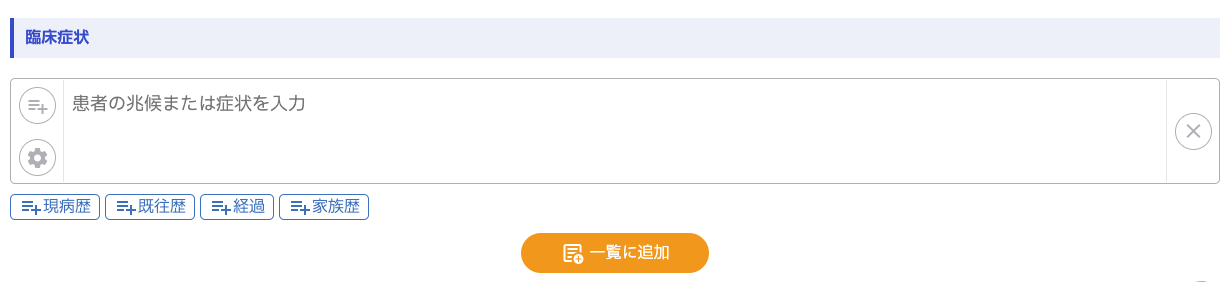
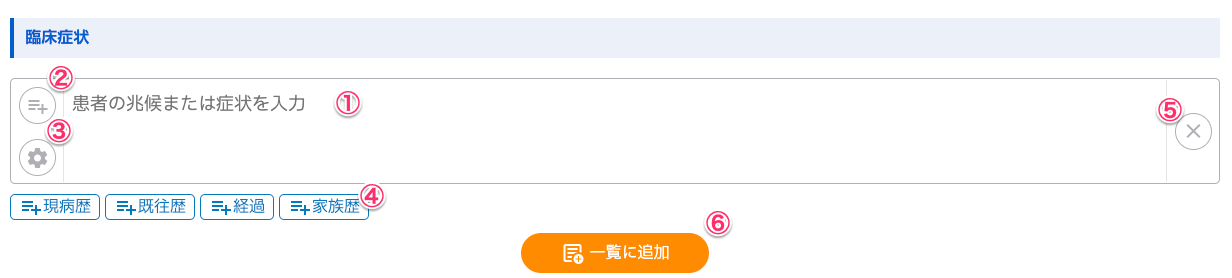
表現型修正

diff --git a/docs/cases/edit/phenotype.md b/docs/cases/edit/phenotype.md
@@ -2,19 +2,28 @@
 
 ## 大項目
 
-| 項目名                            | 説明                                             |
-| --------------------------------- | ------------------------------------------------ |
-| **[臨床症状](#clinical-symptom)** | 臨床症状についての情報を編集することができます。 |
+| 項目名                                 | 説明                                                                                                                                                                           |
+| -------------------------------------- | ------------------------------------------------------------------------------------------------------------------------------------------------------------------------------ |
+| **[臨床症状](#clinical-symptom)**      | 臨床症状についての情報を編集することができます。                                                                                                                               |
+| **[症状一覧](#clinical-symptom-list)** | 臨床症状フォームから追加した症状がリスト形式で表示されます。<br />各症状毎に症状の詳細を入力・症状の削除をすることができます。<br />また、症状の詳細で絞り込み検索ができます。 |
 
 ## 臨床症状 {: #clinical-symptom}
 
-<img src="/assets/images/cases_edit_phenotype_form.png">
+<img style="border: 1px solid #ccc" src="/assets/images/cases_edit_phenotype_form.png">
 
-このフォームは、患者の臨床症状や病歴の詳細を入力するためのものです。<br />
-まず、入力欄に患者の具体的な症状や兆候を記入します。下部には、現病歴、既往歴、経過、家族歴といった各項目ごとに情報を追加できるボタンがあります。<br />
-これにより、各情報を分かりやすく整理し、症例共有時に必要な詳細を網羅的に記録できます。
+### 機能一覧
 
-**TODO: 機能の説明のテーブルを追加する**
+<!-- prettier-ignore -->
+| 番号 | 機能 | 詳細 |
+| ---- | ---- | ---- |
+| 1 | 症状入力欄 | 症状を入力します。 |
+| 2 | 文章から症状を自動抽出 | ボタンをクリックすると文章入力欄が表示されます。文章入力欄に入力した内容から症状を推測して表示し、症状入力エリアに追加することができます。 |
+| 3 | 設定 | タグサイズ、クエリー言語を設定することができます。クエリー言語とはjsonに保存される値の言語のことです。 |
+| 4 | 症状の分類わけ | 現病歴、既往歴、経過、家族歴のいずれかに分類することができます。 |
+| 5 | 症状一括削除 | 入力した症状を一括削除することができます。 |
+| 6 | 一覧に追加 | 入力した症状を一覧に追加することができます。 |
+
+### 項目詳細
 
 <table>
   <thead>
@@ -40,41 +49,34 @@
       <td rowspan="5">臨床症状</td>
       <td>phenotype_hpo_id</td>
       <td>Array&lt;string&gt;</td>
-      <td>テキストボックス</td>
-      <td>-</td>
-      <td>-</td>
-      <td>[]</td>
-      <td><input type="checkbox" class="readonly-input" checked/></td>
-      <td><input type="checkbox" class="readonly-input" /></td>
+      <td rowspan="2">テキストボックス</td>
+      <td rowspan="2">-</td>
+      <td rowspan="2">-</td>
+      <td rowspan="2">[]</td>
+      <td rowspan="2"><input type="checkbox" class="readonly-input" checked/></td>
+      <td rowspan="2"><input type="checkbox" class="readonly-input" /></td>
       <td>proband.phenotypic_features.type.id</td>
       <td></td>
     </tr>
     <tr>
       <td>phenotype_hpo_label</td>
       <td>Array&lt;{ <br />&nbsp name_en: string, <br />&nbsp name_ja: string, <br />&nbsp name_ko: string, <br />&nbsp name_zh: string, <br />&nbsp name_zhcht: string <br /> }&gt;</td>
-      <td>テキストボックス</td>
-      <td>-</td>
-      <td>-</td>
-      <td>[]</td>
-      <td><input type="checkbox" class="readonly-input" checked/></td>
-      <td><input type="checkbox" class="readonly-input" /></td>
       <td>proband.phenotypic_features.type.label</td>
-      <td></td>
+      <td>設定のクエリー言語で選択した言語で保存されます。</td>
     </tr>
   </tbody>
 </table>
 
-## 症状一覧
+## 症状一覧 {: #clinical-symptom-list}
 
-「症状一覧」では、臨床症状フォームから追加した症状がリスト形式で表示されます。<br />
-各症状は HP コード（Human Phenotype Ontology のコード）とその具体的な説明が表示されます。<br />
-また、症状ごとに詳細表示をオンにして、さらに詳しい情報を追加できます。<br />
-不要な項目は削除可能で、症例情報を効率的に管理できます。
+臨床症状フォームから追加した症状がリスト形式で表示されます。<br />
+各症状毎に症状の詳細を入力・症状の削除をすることができます。<br />
+また、症状の詳細で絞り込み検索ができます。
 
 <table>
   <thead>
     <tr>
-      <th rowspan="2" class="text-vertical-align-middle">項目名</th>
+      <th rowspan="2" class="text-vertical-align-middle">各症状毎に編集可能な項目名</th>
       <th rowspan="2" class="text-vertical-align-middle">ID</th>
       <th rowspan="2" class="text-vertical-align-middle">型定義</th>
       <th rowspan="2" class="text-vertical-align-middle">入力形式</th>
